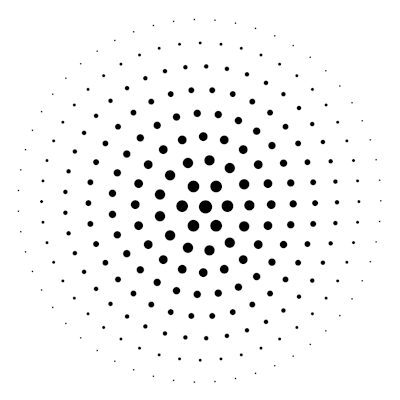
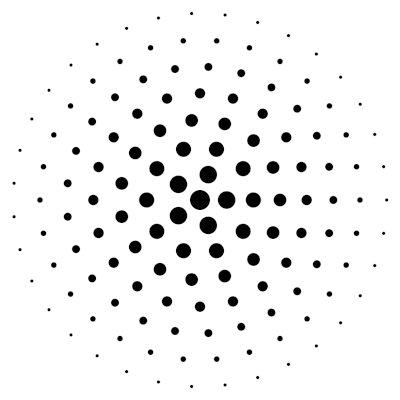
update more layout thumbs

diff --git a/layouts/4.ts b/layouts/4.ts
@@ -11,7 +11,7 @@ export default {
       name: "itemMargin",
       label: "Item Margin",
       type: ConfigFieldType.NumberInput,
-      defaultValue: 20,
+      defaultValue: 70,
       minValue: 10,
       maxValue: 100
     },
@@ -37,7 +37,7 @@ export default {
       type: ConfigFieldType.NumberInput,
       defaultValue: 3,
       minValue: 3,
-      maxValue: 20
+      maxValue: 10
     },
     {
       name: "sizeDecrement",
@@ -68,9 +68,7 @@ export default {
     //const figureInnerAngle = (180 * (figureAngles - 2)) / figureAngles;
     const figureCenterAngle = 360 / figureAngles;
     const figureHalfSectorTg = Math.tan(deg2rad(figureCenterAngle / 2));
-    const figureHalfSectorCos = Math.cos(
-      deg2rad(figureCenterAngle / 2)
-    );
+    const figureHalfSectorCos = Math.cos(deg2rad(figureCenterAngle / 2));
 
     //определяем большую и меньшую стороны
     let bigSide = width;
@@ -101,8 +99,7 @@ export default {
 
       //вращение на угол сектора принимаем за вращение на 360
       const rotatePercent = (360 * figureRotate) / figureCenterAngle;
-      const topDiff =
-        (radiusDiff / 2) * Math.cos(deg2rad(rotatePercent));
+      const topDiff = (radiusDiff / 2) * Math.cos(deg2rad(rotatePercent));
 
       areaCenterPoint.top = height / 2 + topDiff;
     }
@@ -116,7 +113,6 @@ export default {
     let items = [];
     while (figureSmallRadius < squareRadius) {
       const figureSide = figureSmallRadius * figureHalfSectorTg * 2;
-
 
       let itemsOnSide = Math.round(figureSide / itemMargin);
       const correctItemsMargin = figureSide / itemsOnSide;

diff --git a/layouts/index.ts b/layouts/index.ts
@@ -3,7 +3,7 @@ import layout2 from "./2";
 import layout3 from "./3";
 import layout4 from "./4";
 import layout5 from "./5";
-import layout6 from "./6";
+// import layout6 from "./6";
 import layout7 from "./7";
 
-export default [layout1, layout7, layout5, layout2, layout3, layout4, layout6];
+export default [layout1, layout7, layout5, layout2, layout3, layout4];

diff --git a/store.ts b/store.ts
@@ -14,7 +14,6 @@ const bindMiddleware = middleware => {
 
 function initializeStore(initialState) {
   const sagaMiddleware = createSagaMiddleware();
-  console.log({ initialState });
   const store = createStore(
     rootReducer,
     initialState,
